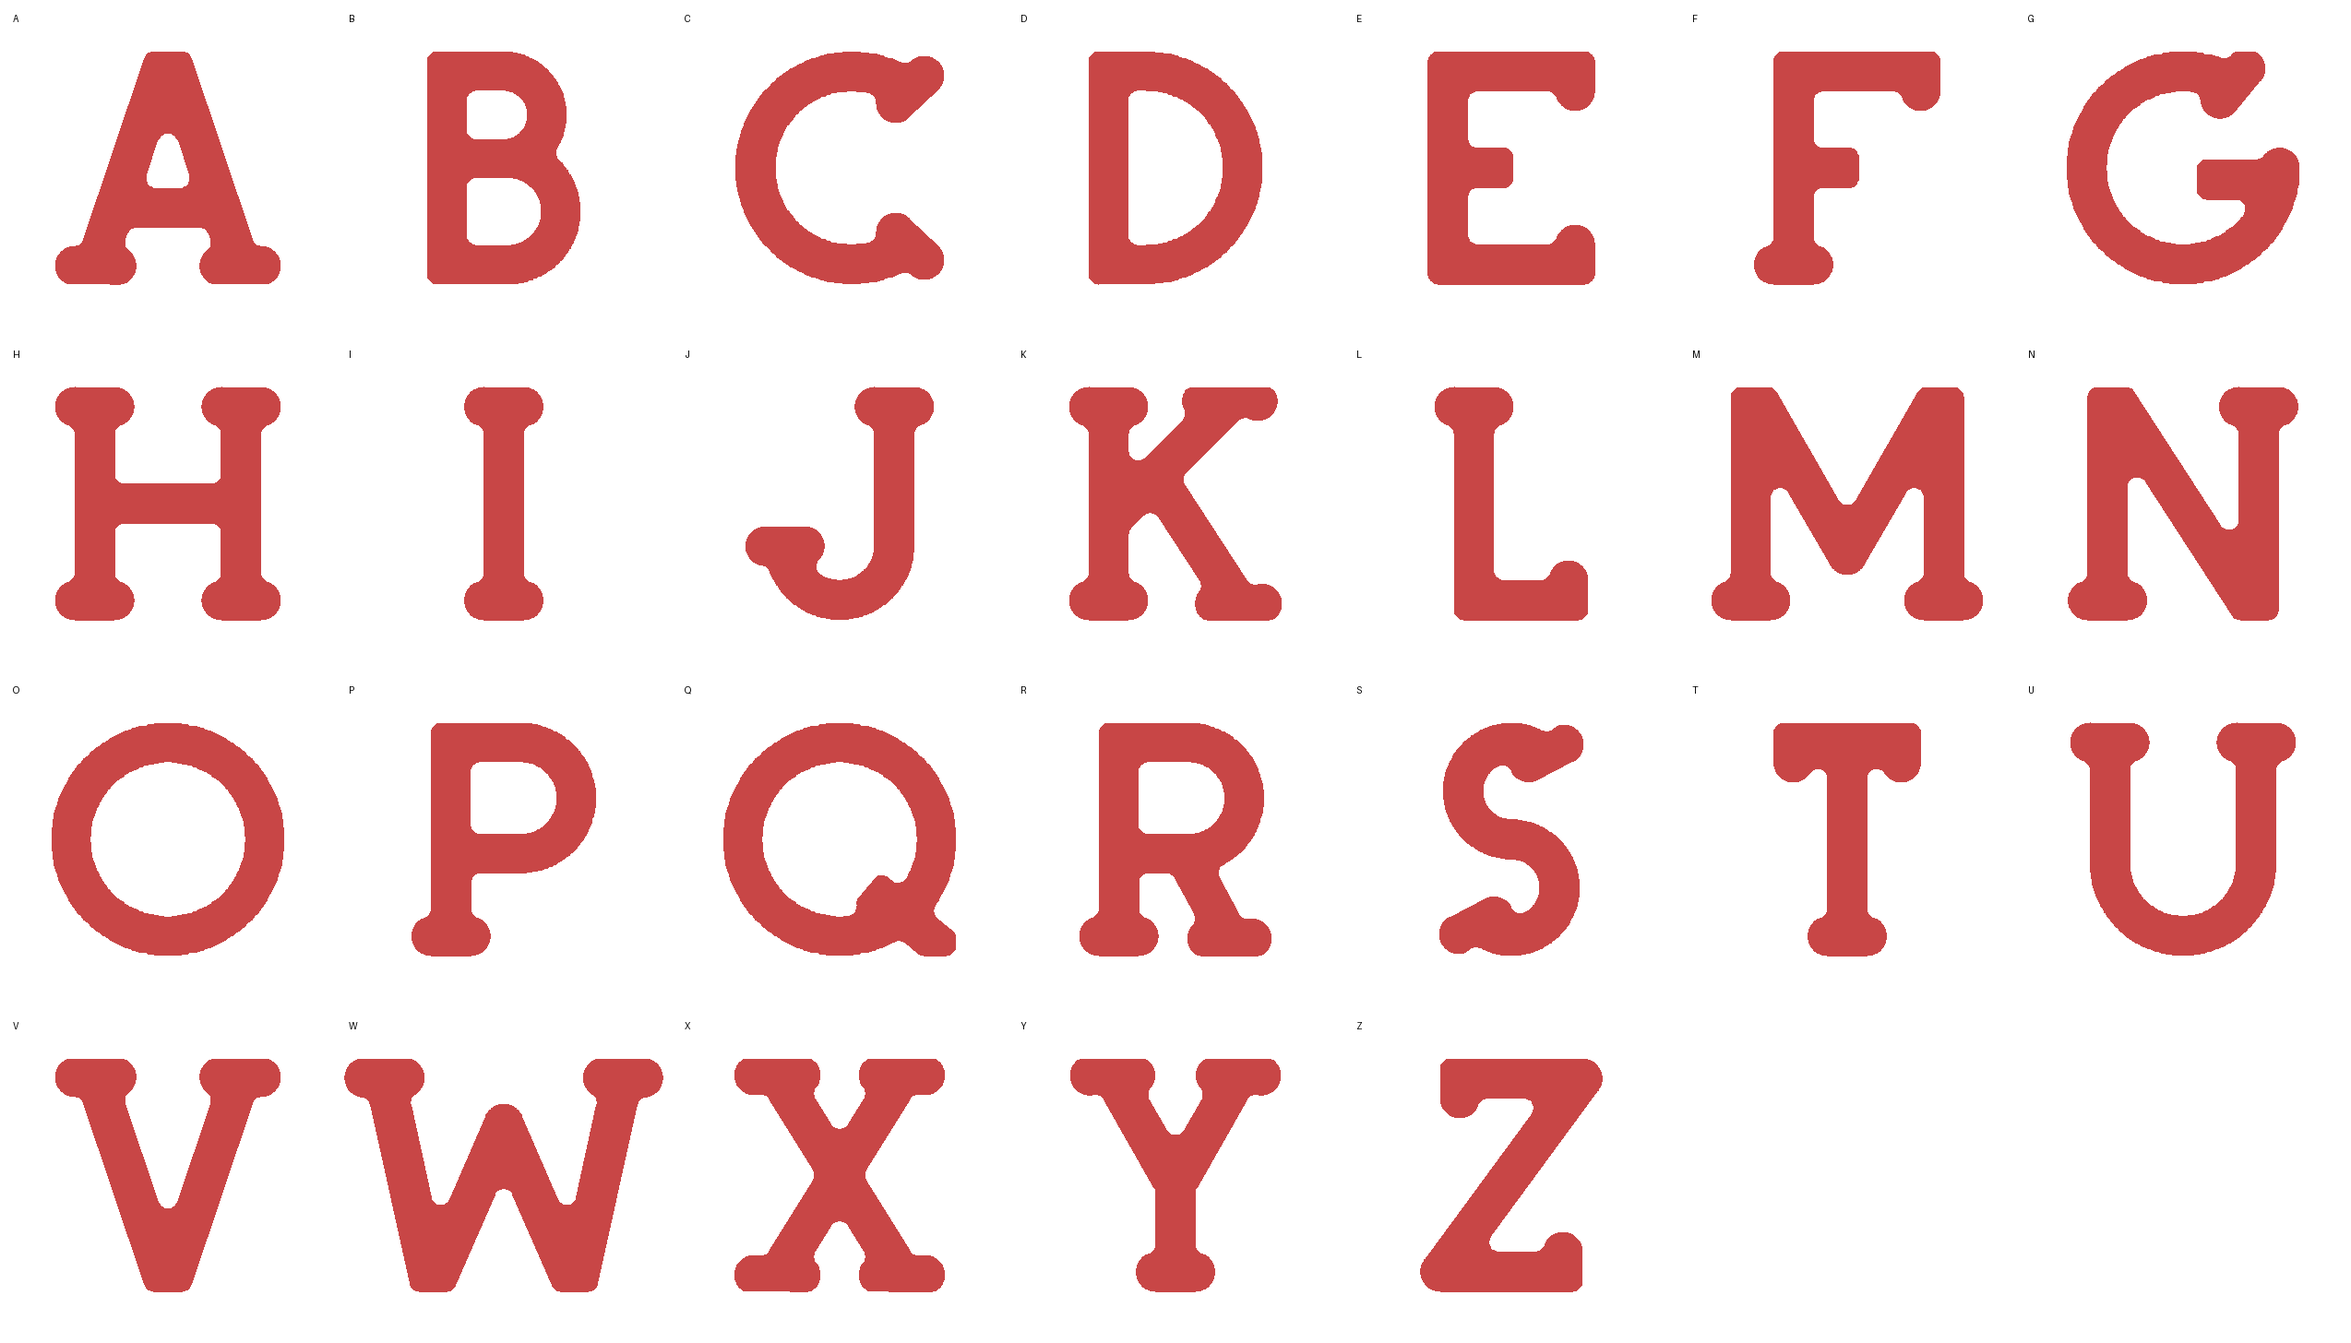
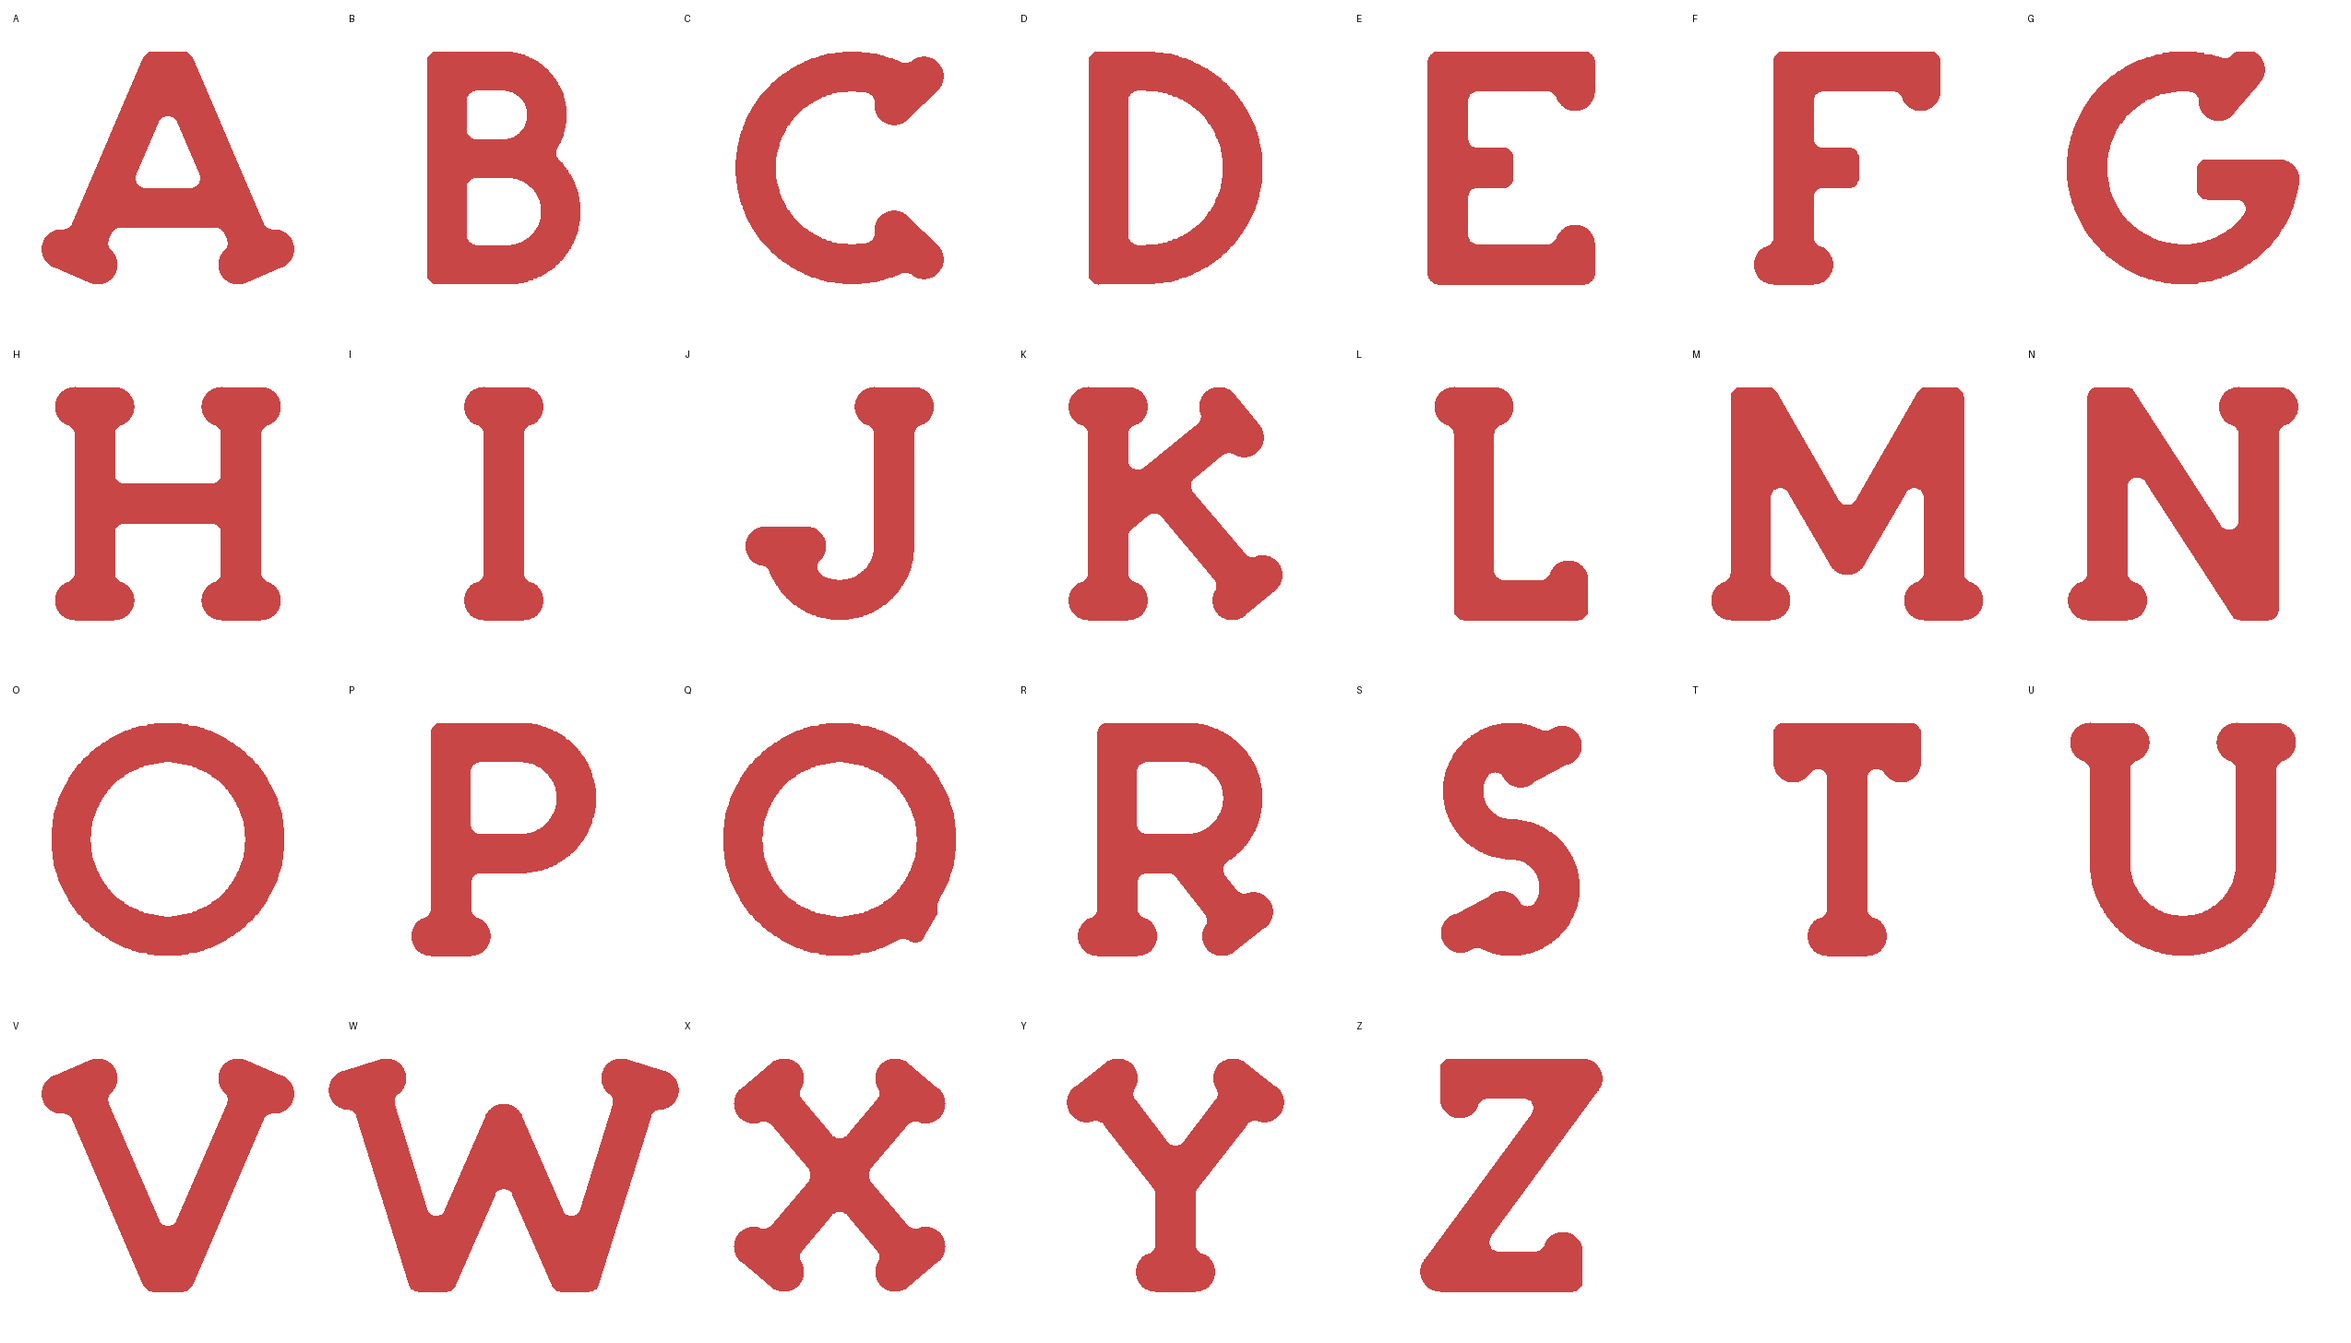
geo font: lobes placed on the stroke's own axis, balanced on curves
Per Alex's model (a stroke drawn with a round 1.5mm pen):
- Every free end is square to its own stroke; ends on the baseline/cap
  line are pulled back along the stroke until they just touch it, instead
  of being cut flat along the line (which gave A/K/C unequal inner and
  outer lobes and K a concave notch).
- Each lobe is a circle centred ON the stroke's side edge (offset curve of
  the centre line), one radius back from the end measured along the edge.
  Fixed: at a stroke's start the offset side was swapped.
- On curves the smaller-showing lobe is pushed out until both show the
  same area: every lobe pair now balances to 100% (G's terminal 97%).
- G's arc ends on the crossbar's centre line (no step); Q tail rerouted
  (still open: its lobes get dropped against the ring).

Claude-Session: https://claude.ai/code/session_01UijCLgun3HGSYQiie44R95

diff --git a/jigsawzall/scripts/geo_font.py b/jigsawzall/scripts/geo_font.py
@@ -75,8 +75,11 @@ def _letters():
                   [(h, bot), (w - h, bot)]])  # middle bar centred: same room above and below
     L["F"] = (w, [[(h, 0), (h, 1)], [(h, top), (w - h, top)], [(h, 0.5), (mb, 0.5)]])
     # terminal at 48deg, crossbar at 0.45: the terminal's inner bump keeps
-    # 3.2mm to the bar (at 42deg / 0.5 it was 2.0mm and got dropped)
-    L["G"] = (1.0, [_arc(0.5, 0.5, R, 48, 360) + [(0.5 + R, 0.45)], [(0.5 + R, 0.45), (0.56, 0.45)]])
+    # 3.2mm to the bar. The arc ends exactly ON the crossbar's centre line,
+    # so the two meet in one rounded joint (ending it at 0.5 left a step)
+    ge = 360 + math.degrees(math.asin((0.45 - 0.5) / R))
+    gx = 0.5 + R * math.cos(math.radians(ge))
+    L["G"] = (1.0, [_arc(0.5, 0.5, R, 48, ge), [(gx, 0.45), (0.56, 0.45)]])
     w = 0.80
     L["H"] = (w, [[(h, 0), (h, 1)], [(w - h, 0), (w - h, 1)], [(h, 0.5), (w - h, 0.5)]])  # top = bottom
     L["I"] = (s, [[(h, 0), (h, 1)]])
@@ -97,7 +100,12 @@ def _letters():
     rp = (top - 0.44) / 2
     ap = h + 0.30
     L["P"] = (ap + rp + h, [[(h, 0), (h, 1)], [(h, top), (ap, top)] + _arc(ap, 0.44 + rp, rp, 90, -90) + [(h, 0.44)]])
-    L["Q"] = (1.0, [_arc(0.5, 0.5, R, 0, 360), [(0.62, 0.30), (0.98, 0)]])
+    # tail: from ON the ring (a joint) at -50deg, out at a shallow 30deg to
+    # the baseline, where it ends in a normal tab clear of the ring
+    qa = math.radians(-50)
+    q0 = (0.5 + R * math.cos(qa), 0.5 + R * math.sin(qa))
+    q1 = (q0[0] + q0[1] / math.tan(math.radians(30)), 0.0)
+    L["Q"] = (q1[0] + 0.05, [_arc(0.5, 0.5, R, 0, 360), [q0, q1]])
     L["R"] = (ap + rp + h, [[(h, 0), (h, 1)], [(h, top), (ap, top)] + _arc(ap, 0.44 + rp, rp, 90, -90) + [(h, 0.44)],
                             [(ap - 0.02, 0.44), (ap + rp + h, 0)]])
     # S: two 3/4 circles meeting at the centre, 180deg-symmetric
@@ -141,110 +149,144 @@ def glyph_units(ch, serif_mm=3.0, cap_mm=18.0, stroke=STROKE, fillet_mm=None, lo
     w, strokes = LETTERS[ch]
     s = stroke
     r = serif_mm / cap_mm / 2  # serif semicircle radius, cap units
-    # a slanted stroke ending at the letter's side (A, V, W, X, Y feet and
-    # tops): move its end in so the stroke's OUTER edge, not its centre
-    # line, lands on the side
-    fixed = []
-    for pl in strokes:
-        pl = list(pl)
-        for k, nb in ((0, 1), (-1, -2)):
-            (x, y), (x2, y2) = pl[k], pl[nb]
-            if (y <= 1e-6 or y >= 1 - 1e-6) and (x <= 1e-6 or x >= w - 1e-6) and abs(x2 - x) > 1e-6:
-                sin = abs(y2 - y) / math.hypot(x2 - x, y2 - y)
-                hw = (s / 2) / max(sin, 0.3)
-                pl[k] = (hw if x <= 1e-6 else w - hw, y)
-        fixed.append(pl)
-    strokes = fixed
-    lines = [LineString(p) for p in strokes]
-    ends = []  # (point, outward direction, free?)
-    ext = []
+    notch = NOTCH_MIN_MM / cap_mm  # a lobe keeps this much wood to a stroke ahead of it
+    strokes = [list(pl) for pl in strokes]
+    lines = [LineString(pl) for pl in strokes]
+
+    def unit(v):
+        n_ = math.hypot(*v) or 1.0
+        return (v[0] / n_, v[1] / n_)
+
+    # every stroke end: free (gets the tab lobes) or a joint
+    ends = []  # (stroke i, k, point, outward direction d, free?, on the baseline/cap line?)
     for i, pl in enumerate(strokes):
         others = unary_union([ln for j, ln in enumerate(lines) if j != i]) if len(lines) > 1 else None
+        closed = math.dist(pl[0], pl[-1]) < 1e-6  # O, Q's ring: no ends at all
         for k in (0, -1):
             p = pl[k]
             q = pl[1] if k == 0 else pl[-2]
-            d = (p[0] - q[0], p[1] - q[1])
-            n = math.hypot(*d) or 1.0
-            d = (d[0] / n, d[1] / n)
-            closed = math.dist(pl[0], pl[-1]) < 1e-6  # O, Q's ring: no ends at all
+            d = unit((p[0] - q[0], p[1] - q[1]))
             free = not closed and (others is None or others.distance(Point(p)) > 0.6 * s)
-            ends.append((p, d, free))
-        # ends on the baseline / cap line: extend past it, then clip flat
-        q = list(pl)
-        for k in (0, -1):
-            if q[k][1] <= 1e-6 or q[k][1] >= 1 - 1e-6:
-                q = _extend(q, k, 2 * s)
-        ext.append(LineString(q))
-    body = unary_union([ln.buffer(s / 2, cap_style="flat", join_style="round") for ln in ext])
-    # round joins only where strokes meet: give joined (non-free) ends a round cap
+            on_line = p[1] <= 1e-6 or p[1] >= 1 - 1e-6
+            ends.append((i, k, p, d, free, on_line))
+
+    def edge_points(pl, k, P, d):
+        """The two points on the stroke's side EDGES (offset curves of its
+        centre line, s/2 either side) one serif radius back from end k,
+        measured along each edge -- on a curve the tangent would put the
+        inner and outer circle in unequal spots."""
+        nrm = (-d[1], d[0])
+        out = []
+        for sg in (1, -1):
+            corner = Point(P[0] + nrm[0] * sg * s / 2, P[1] + nrm[1] * sg * s / 2)
+            # offset_curve's + side is LEFT of the line's own direction; at a
+            # stroke's start (k=0) that direction points into the stroke, so
+            # left/right swap relative to the outward normal
+            side = sg if k == -1 else -sg
+            edge = LineString(pl).offset_curve(side * s / 2, join_style="round")
+            if edge.is_empty or edge.length < 2 * r:
+                out.append(None)
+                continue
+            a_, b_ = Point(edge.coords[0]), Point(edge.coords[-1])
+            t = r if a_.distance(corner) < b_.distance(corner) else edge.length - r
+            q = edge.interpolate(t)
+            out.append(((q.x, q.y), (nrm[0] * sg, nrm[1] * sg)))
+        return out
+
+    def lobes(P, d, pl=None, k=None):
+        """The tab at a stroke end whose square end-line is centred on P
+        (outward direction d): a circle of radius r on EACH side edge, level
+        with the end line less r, bulging outward -- a mirror pair about the
+        stroke's own axis, whatever its angle. Returns [(circle, normal)]."""
+        out = []
+        on_edge = edge_points(pl, k, P, d) if pl is not None else [None, None]
+        for sg, ep in zip((1, -1), on_edge):
+            nrm = (-d[1] * sg, d[0] * sg)
+            c = ep[0] if ep else (P[0] + nrm[0] * s / 2 - d[0] * r, P[1] + nrm[1] * s / 2 - d[1] * r)
+            # a FULL circle centred on the edge: on a straight stroke its inner
+            # half hides inside the stroke (same as a half circle); on a curve
+            # it blends into the bending edge instead of leaving a notch where
+            # a flat half-circle side ran off along the tangent (C, S)
+            out.append((Point(c).buffer(r, quad_segs=24), nrm))
+        return out
+
+    def end_square(P, d):
+        nrm = (-d[1], d[0])
+        return Polygon([(P[0] + nrm[0] * s / 2, P[1] + nrm[1] * s / 2), (P[0] - nrm[0] * s / 2, P[1] - nrm[1] * s / 2),
+                        (P[0] - nrm[0] * s / 2 - d[0] * 2 * r, P[1] - nrm[1] * s / 2 - d[1] * 2 * r),
+                        (P[0] + nrm[0] * s / 2 - d[0] * 2 * r, P[1] + nrm[1] * s / 2 - d[1] * 2 * r)])
+
+    # a FREE end on the baseline / cap line ends square across its stroke
+    # (never cut along the line: a slanted foot cut flat gave A and C unequal
+    # inner and outer lobes) and is pulled back along the stroke until its
+    # lowest (highest) point just touches the line
+    tab_at = {}
+    for i, k, p, d, free, on_line in ends:
+        if not (free and on_line):
+            continue
+        shape = unary_union([end_square(p, d)] + [lb for lb, _n in lobes(p, d)])
+        over = -shape.bounds[1] if p[1] <= 1e-6 else shape.bounds[3] - 1.0
+        t = max(0.0, over) / max(abs(d[1]), 1e-6)
+        P = (p[0] - d[0] * t, p[1] - d[1] * t)
+        strokes[i][k] = P
+        tab_at[(i, k)] = P
+    # joints on the baseline / cap line (V's point, N's corners): run the
+    # stroke past the line and cut it flat there, inside the letter's box
+    # (no spur beside N's / M's stem)
+    pieces, extensions = [], []
+    for i, pl in enumerate(strokes):
+        pieces.append(LineString(pl).buffer(s / 2, cap_style="flat", join_style="round"))
+        for ii, k, p, d, free, on_line in ends:
+            if ii == i and on_line and not free:
+                e = (p[0] + d[0] * 2 * s, p[1] + d[1] * 2 * s)
+                extensions.append(LineString([p, e]).buffer(s / 2, cap_style="flat"))
+    body = unary_union(pieces + [x.intersection(box(0, 0, w, 1)) for x in extensions])
     # round over a joint only where two stroke ENDS meet (W's peak, M's
     # middle): an end landing part-way along another stroke (A's crossbar)
     # would poke a bump out past it
-    tips = [p for p, _d, _f in ends]
-    joints = [Point(p).buffer(s / 2, quad_segs=16) for p, _d, free in ends
+    tips = [p for _i, _k, p, _d, _f, _o in ends]
+    joints = [Point(p).buffer(s / 2, quad_segs=16) for _i, _k, p, _d, free, _o in ends
               if not free and 1e-6 < p[1] < 1 - 1e-6
               and sum(1 for q in tips if math.dist(p, q) < 0.6 * s) >= 2]
-    # clip to the letter's own box: no spur where N's / M's diagonal meets
-    # a stem at the cap line or baseline
-    body = unary_union([body] + joints).intersection(box(0, 0, w, 1))
+    body = unary_union([body] + joints).intersection(box(-1, 0, w + 1, 1))
     serifs = []
-    notch = NOTCH_MIN_MM / cap_mm  # serif must leave this much room to other strokes
-    stroke_bodies = [ln.buffer(s / 2, cap_style="flat") for ln in ext]
-    for p, d, free in ends:
+    for i, k, p, d, free, on_line in ends:
         if not free:
             continue
-        own = min(range(len(ext)), key=lambda i: ext[i].distance(Point(p)))
-        others = unary_union([b for i, b in enumerate(stroke_bodies) if i != own])
-        # the end's two corners: on the baseline / cap line where the stroke
-        # is clipped flat, else square across the stroke end
-        if p[1] <= 1e-6 or p[1] >= 1 - 1e-6:
-            y = 0.0 if p[1] <= 1e-6 else 1.0
-            seg = body.intersection(LineString([(p[0] - 3 * s, y), (p[0] + 3 * s, y)]))
-            # just this stroke's own stretch of the line -- the scan can also
-            # take in a neighbour (K's arm beside its stem) and put the inner
-            # bump on the wrong stroke
-            parts = list(seg.geoms) if hasattr(seg, "geoms") else [seg]
-            seg = min(parts, key=lambda g_: g_.distance(Point(p[0], y)))
-            xa, _y0, xb, _y1 = seg.bounds
-            corners = [(xa, y), (xb, y)]
-        else:
-            nx, ny = -d[1], d[0]
-            corners = [(p[0] + nx * s / 2, p[1] + ny * s / 2), (p[0] - nx * s / 2, p[1] - ny * s / 2)]
-        mid = ((corners[0][0] + corners[1][0]) / 2, (corners[0][1] + corners[1][1]) / 2)
+        P = tab_at.get((i, k), p)
+        others = unary_union([pc for j, pc in enumerate(pieces) if j != i])
         pair = []
-        for c in corners:
-            # half a circle of diameter serif_mm, flat side ON the stroke's
-            # side edge, starting at the corner and running back along the
-            # stroke, bulging outward: with its mirror on the other side the
-            # stroke end becomes a puzzle-tab bulb on a stroke-wide neck
-            o = (c[0] - mid[0], c[1] - mid[1])
-            on = math.hypot(*o) or 1.0
-            o = (o[0] / on, o[1] / on)
-            cc = (c[0] - d[0] * r, c[1] - d[1] * r)
-            disc = Point(cc).buffer(r, quad_segs=24)
-            half = Polygon([(cc[0] + d[0] * 2 * r, cc[1] + d[1] * 2 * r), (cc[0] - d[0] * 2 * r, cc[1] - d[1] * 2 * r),
-                            (cc[0] - d[0] * 2 * r + o[0] * 2 * r, cc[1] - d[1] * 2 * r + o[1] * 2 * r),
-                            (cc[0] + d[0] * 2 * r + o[0] * 2 * r, cc[1] + d[1] * 2 * r + o[1] * 2 * r)])
-            bump = disc.intersection(half)
-            # a bulge with another stroke within NOTCH_MIN_MM straight AHEAD
-            # of it would pinch the surround's wood between them to a neck
-            # (E's middle bar, under its top bar): skip it. Beside it (T's,
-            # L's bar ends near the stem) or with more room ahead (K's inside
-            # bumps, 3.3mm) it stays
+        for bump, o in lobes(P, d, strokes[i], k):
+            # a lobe with another stroke within NOTCH_MIN_MM straight AHEAD of
+            # it would pinch the surround's wood between them to a neck (E's
+            # middle bar, under its top bar): skip it
             ahead = unary_union([bump, affinity.translate(bump, o[0] * notch, o[1] * notch)]).convex_hull
             dropped = not others.is_empty and ahead.intersects(others)
             if log is not None:
-                log.append((p, o, not dropped, bump.distance(others) * cap_mm if not others.is_empty else None))
-            if dropped:
-                continue
-            pair.append(bump)
-        # both bumps or neither: a lone bump on one side of an end looks
-        # lopsided (Q's tail foot, whose inner bump can't clear the bowl).
-        # One may still be clipped off by the baseline / cap line (L's bar)
+                log.append((P, o, not dropped, bump.distance(others) * cap_mm if not others.is_empty else None))
+            if not dropped:
+                pair.append(bump)
+        # both lobes or neither: a lone lobe on one side of an end looks lopsided
         if len(pair) == 2:
+            # on a curve the edge bends toward one circle and away from the
+            # other, so equal circles SHOW unequal amounts (S: 80%): push the
+            # smaller-showing one out along its normal until they match
+            vis = [b.difference(body).area for b in pair]
+            lo = 0 if vis[0] < vis[1] else 1
+            if vis[lo] < 0.99 * vis[1 - lo]:
+                nrm = lobes(P, d, strokes[i], k)[lo][1]
+                a_, b_ = 0.0, r
+                for _ in range(24):
+                    m = (a_ + b_) / 2
+                    t = affinity.translate(pair[lo], nrm[0] * m, nrm[1] * m)
+                    if t.difference(body).area < vis[1 - lo]:
+                        a_ = m
+                    else:
+                        b_ = m
+                pair[lo] = affinity.translate(pair[lo], nrm[0] * b_, nrm[1] * b_)
             serifs.extend(pair)
         elif log is not None and pair:
-            log.append((p, None, False, None))  # its partner, dropped with it
+            log.append((P, None, False, None))  # its partner, dropped with it
     g = unary_union([body] + serifs).intersection(box(-1, 0, w + 1, 1)).buffer(0)
     # round EVERY corner, inside and out (Alex: square corners next to the
     # round serifs "just look weird"): close (fills inside corners, e.g.
